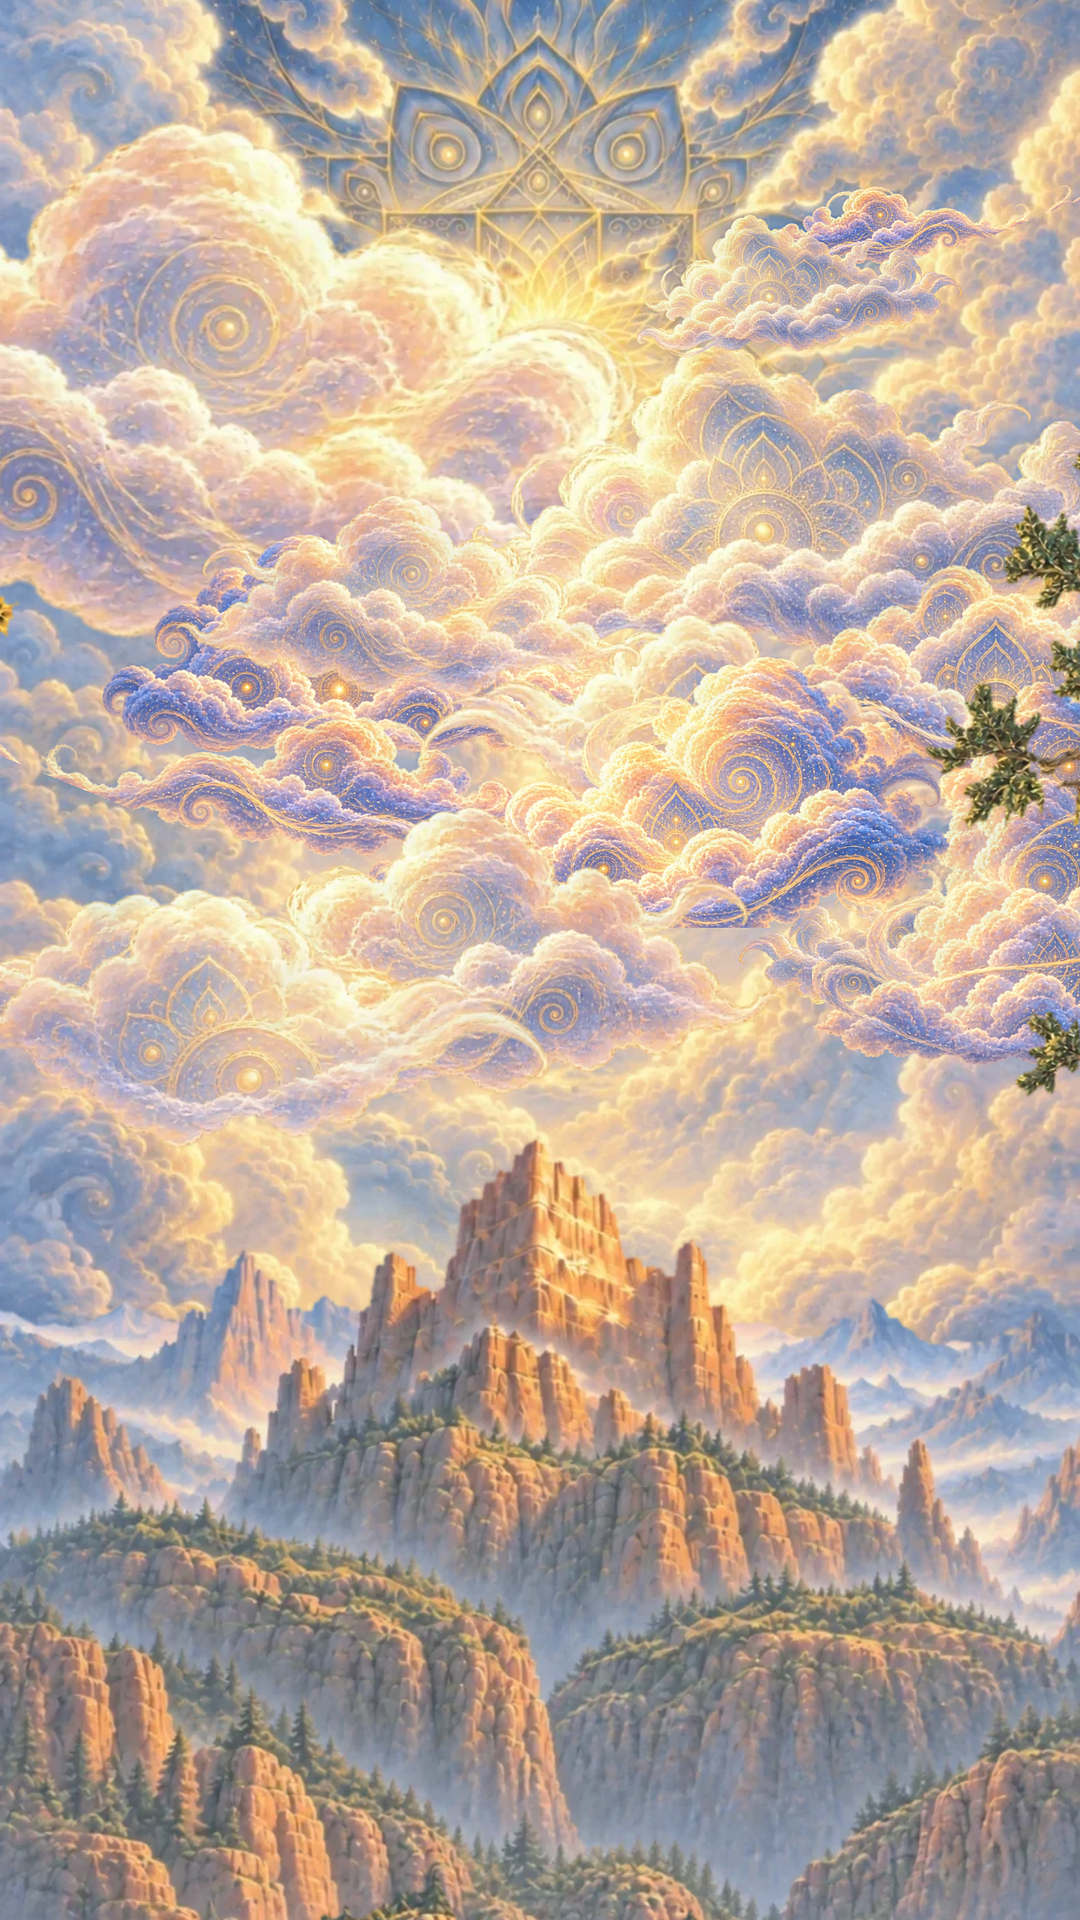
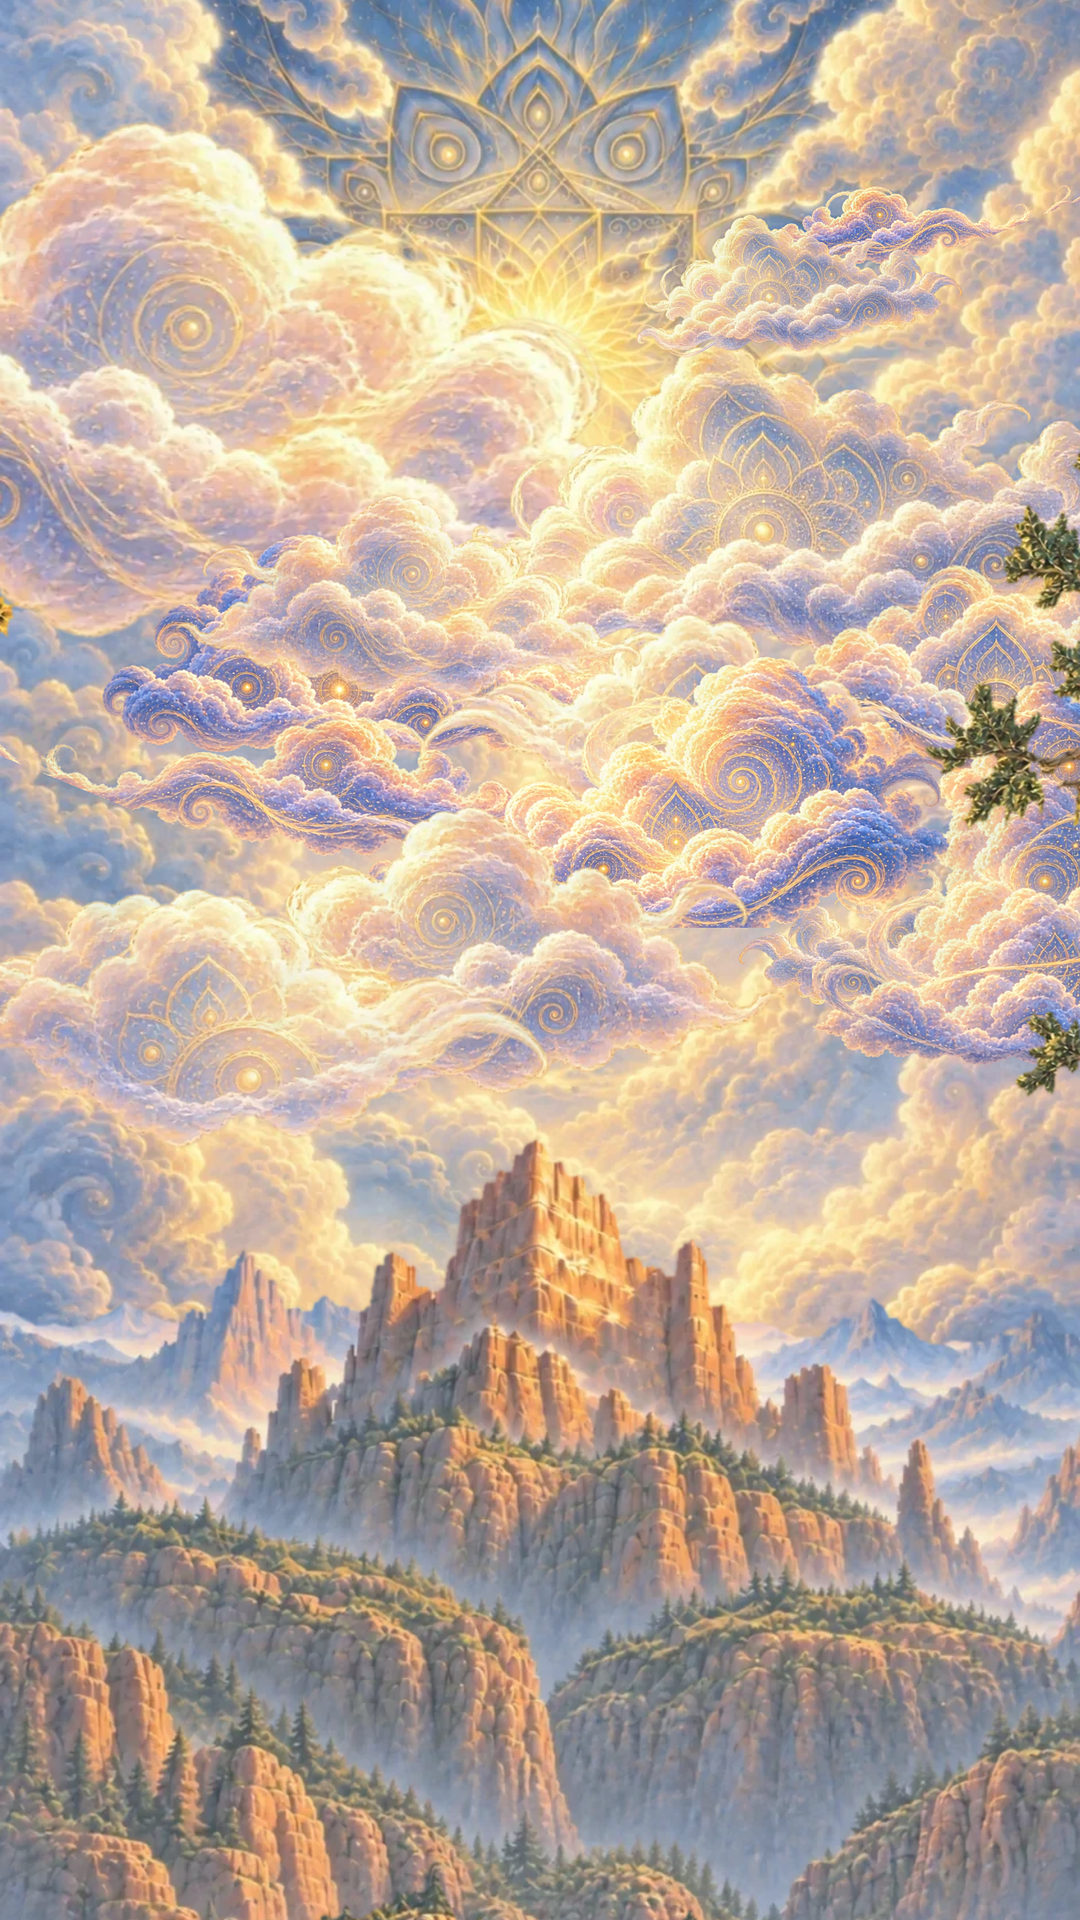
World v3 clouds: all part at near-equal speeds (within 17%), parting starts immediately; big cloud placed with the sun just inside its right edge
Claude-Session: https://claude.ai/code/session_01X5u2D9a4RRbbCvwnE6RQKF

Changed region(s): [[0.0, 0.0625, 0.6111, 0.3438]]

diff --git a/prototype/world-v3-preview/trev-world-scroll.html b/prototype/world-v3-preview/trev-world-scroll.html
@@ -57,22 +57,22 @@ const LAYERS = [
 // in the canvas; they part to `dir` and rise, nearer ones bigger and faster. `after` = drawn in
 // front of that layer.
 const CLOUDS = [ // ~60% of the sky above the rock covered, castle clear
-  { src: "burnell-world-cloud-medium.webp", after: "sky", depth: 0.25, w: 1061, x0: 182, y0: 336, dir: -1, op: 0.97, reveal: 0.07 },
-  { src: "burnell-world-cloud-large.webp", after: "sky", depth: 0.5, w: 660, x0: 720, y0: 440, dir: 1, op: 0.97, flip: true, reveal: 0.09 },
-  { src: "trev-cloud-c.webp", ar: 0.295, after: "mountains", depth: 0.35, w: 300, x0: 830, y0: 205, dir: 1, op: 0.93, flip: true },
-  { src: "burnell-world-cloud-large.webp", after: "mountains", depth: 0.35, w: 285, x0: 704, y0: 249, dir: 1, op: 0.91, flip: true },
-  { src: "trev-cloud-d.webp", ar: 0.413, after: "mountains", depth: 0.35, w: 470, x0: 330, y0: 560, dir: -1, op: 0.97 },
-  { src: "trev-cloud-b.webp", ar: 0.5, after: "mountains", depth: 0.35, w: 520, x0: 860, y0: 585, dir: 1, op: 0.9 },
-  { src: "burnell-world-cloud-small.webp", after: "mountains", depth: 0.35, w: 416, x0: 134, y0: 864, dir: -1, op: 0.91, flip: true },
-  { src: "burnell-world-cloud-small.webp", after: "falls", depth: 0.65, w: 412, x0: 564, y0: 624, dir: 1, op: 0.95, flip: true },
-  { src: "trev-cloud-c.webp", ar: 0.295, after: "falls", depth: 0.65, w: 560, x0: 170, y0: 700, dir: -1, op: 0.9 },
-  { src: "burnell-world-cloud-large.webp", after: "falls", depth: 0.65, w: 352, x0: 826, y0: 828, dir: 1, op: 0.89 },
-  { src: "trev-cloud-e.webp", ar: 1.018, after: "falls", depth: 0.65, w: 330, x0: 880, y0: 760, dir: 1, op: 0.9 },
-  { src: "burnell-world-cloud-small.webp", after: "falls", depth: 0.65, w: 428, x0: 152, y0: 871, dir: -1, op: 0.86 },
-  { src: "burnell-world-cloud-medium.webp", after: "foreground", depth: 1.0, w: 407, x0: 350, y0: 519, dir: -1, op: 0.84 },
-  { src: "trev-cloud-a.webp", ar: 0.457, after: "foreground", depth: 1.0, w: 520, x0: 560, y0: 690, dir: 1, op: 0.95, flip: true },
-  { src: "burnell-world-cloud-medium.webp", after: "foreground", depth: 1.0, w: 590, x0: 389, y0: 830, dir: -1, op: 0.93, flip: true },
-  { src: "burnell-world-cloud-small.webp", after: "foreground", depth: 1.0, w: 509, x0: 230, y0: 890, dir: -1, op: 0.86 },
+  { src: "burnell-world-cloud-medium.webp", after: "sky", depth: 0.25, w: 1061, x0: 150, y0: 336, dir: -1, op: 0.97, spd: 0.15 },
+  { src: "burnell-world-cloud-large.webp", after: "sky", depth: 0.5, w: 660, x0: 720, y0: 440, dir: 1, op: 0.97, flip: true, spd: 0.55 },
+  { src: "trev-cloud-c.webp", ar: 0.295, after: "mountains", depth: 0.35, w: 300, x0: 830, y0: 205, dir: 1, op: 0.93, flip: true, spd: 0.3 },
+  { src: "burnell-world-cloud-large.webp", after: "mountains", depth: 0.35, w: 285, x0: 704, y0: 249, dir: 1, op: 0.91, flip: true, spd: 0.8 },
+  { src: "trev-cloud-d.webp", ar: 0.413, after: "mountains", depth: 0.35, w: 470, x0: 330, y0: 560, dir: -1, op: 0.97, spd: 0.45 },
+  { src: "trev-cloud-b.webp", ar: 0.5, after: "mountains", depth: 0.35, w: 520, x0: 860, y0: 585, dir: 1, op: 0.9, spd: 0.95 },
+  { src: "burnell-world-cloud-small.webp", after: "mountains", depth: 0.35, w: 416, x0: 134, y0: 864, dir: -1, op: 0.91, flip: true, spd: 0.2 },
+  { src: "burnell-world-cloud-small.webp", after: "falls", depth: 0.65, w: 412, x0: 564, y0: 624, dir: 1, op: 0.95, flip: true, spd: 0.7 },
+  { src: "trev-cloud-c.webp", ar: 0.295, after: "falls", depth: 0.65, w: 560, x0: 170, y0: 700, dir: -1, op: 0.9, spd: 0.35 },
+  { src: "burnell-world-cloud-large.webp", after: "falls", depth: 0.65, w: 352, x0: 826, y0: 828, dir: 1, op: 0.89, spd: 1.0 },
+  { src: "trev-cloud-e.webp", ar: 1.018, after: "falls", depth: 0.65, w: 330, x0: 880, y0: 760, dir: 1, op: 0.9, spd: 0.6 },
+  { src: "burnell-world-cloud-small.webp", after: "falls", depth: 0.65, w: 428, x0: 152, y0: 871, dir: -1, op: 0.86, spd: 0.1 },
+  { src: "burnell-world-cloud-medium.webp", after: "foreground", depth: 1.0, w: 407, x0: 350, y0: 519, dir: -1, op: 0.84, spd: 0.85 },
+  { src: "trev-cloud-a.webp", ar: 0.457, after: "foreground", depth: 1.0, w: 520, x0: 560, y0: 690, dir: 1, op: 0.95, flip: true, spd: 0.4 },
+  { src: "burnell-world-cloud-medium.webp", after: "foreground", depth: 1.0, w: 590, x0: 389, y0: 830, dir: -1, op: 0.93, flip: true, spd: 0.75 },
+  { src: "burnell-world-cloud-small.webp", after: "foreground", depth: 1.0, w: 509, x0: 230, y0: 890, dir: -1, op: 0.86, spd: 0.25 },
 ];
 const world = document.getElementById("world");
 const sunsetEl = document.createElement("canvas"); sunsetEl.id = "sunset"; sunsetEl.width = 941; sunsetEl.height = 1672;
@@ -138,10 +138,12 @@ function layout(p) {
   // parting clouds (centred on x0,y0)
   const now = performance.now() / 1000;
   CLOUDS.forEach((c, i) => {
-    // `reveal`: the clouds over the sun clear out within the first moment of scrolling
-    const e = ease(p / (c.reveal || PART_RANGE)), push = c.reveal ? 900 : 300 + 650 * c.depth;
-    const x = c.x0 - c.w / 2 + c.dir * push * e + 8 * Math.sin(now * 0.3 + i);
-    const y = c.y0 - c.w * (c.ar || 0.438) / 2 - p * (250 + 650 * c.depth);
+    // every cloud parts at nearly the same pace (speeds within 17% of each other); the parting
+    // starts the moment you scroll (ease-out), so a cloud edge sitting on the sun clears it quickly
+    const t = Math.min(1, p / PART_RANGE), e = 1 - (1 - t) * (1 - t);
+    const k = 1 + 0.17 * c.spd;
+    const x = c.x0 - c.w / 2 + c.dir * 640 * k * e + 8 * Math.sin(now * 0.3 + i);
+    const y = c.y0 - c.w * (c.ar || 0.438) / 2 - p * 600 * k;
     c.el.style.transform = `translate3d(${x.toFixed(1)}px, ${y.toFixed(1)}px, 0)${c.flip ? " scaleX(-1)" : ""}`;
   });
   // landing: blurred + dimmed, clearing over the first 30% of the descent
